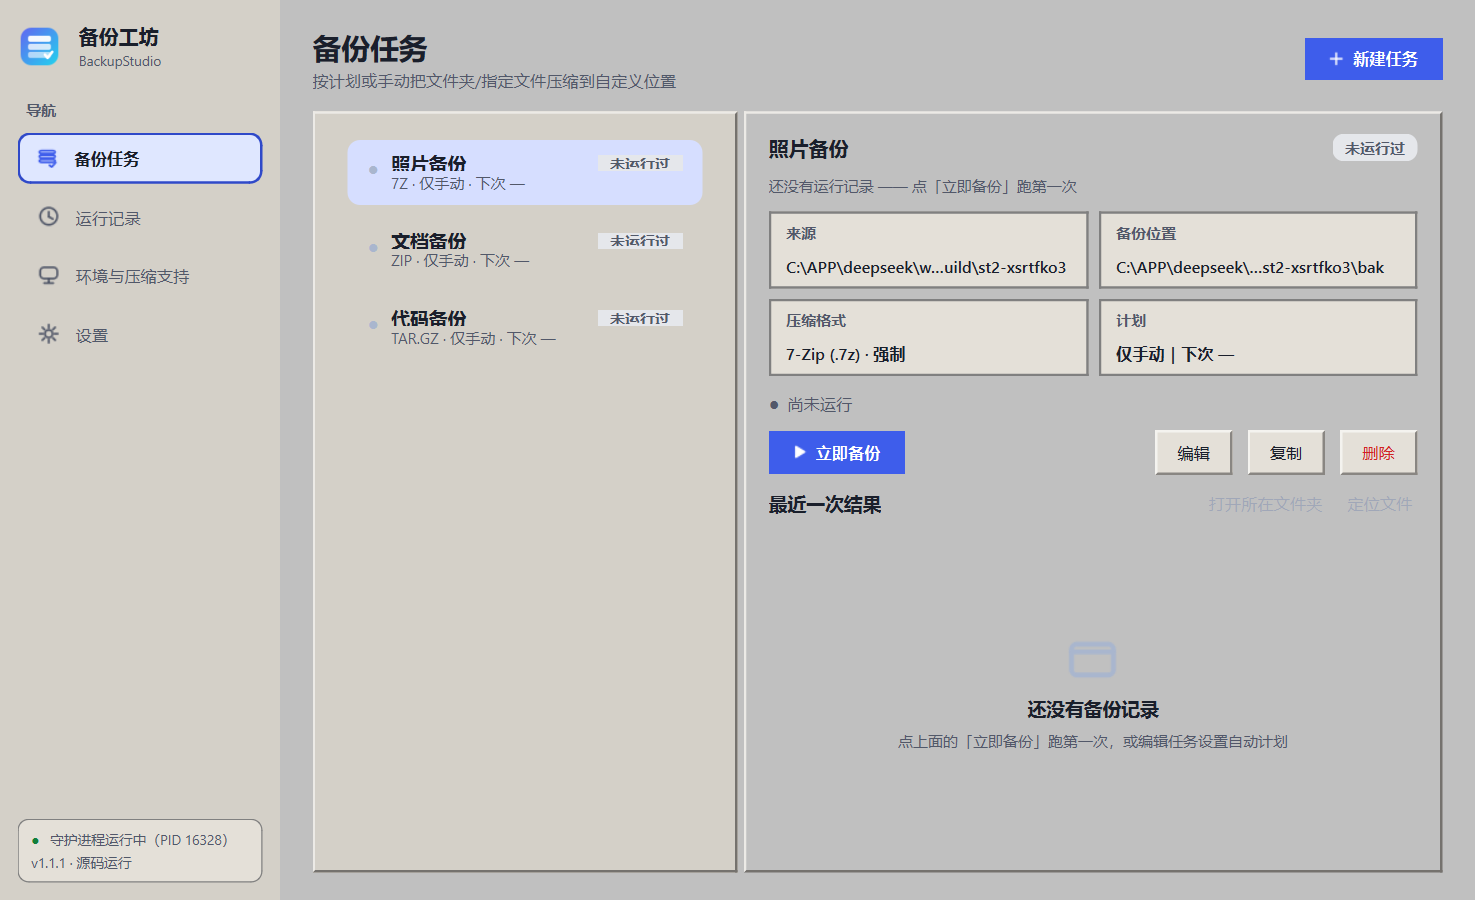
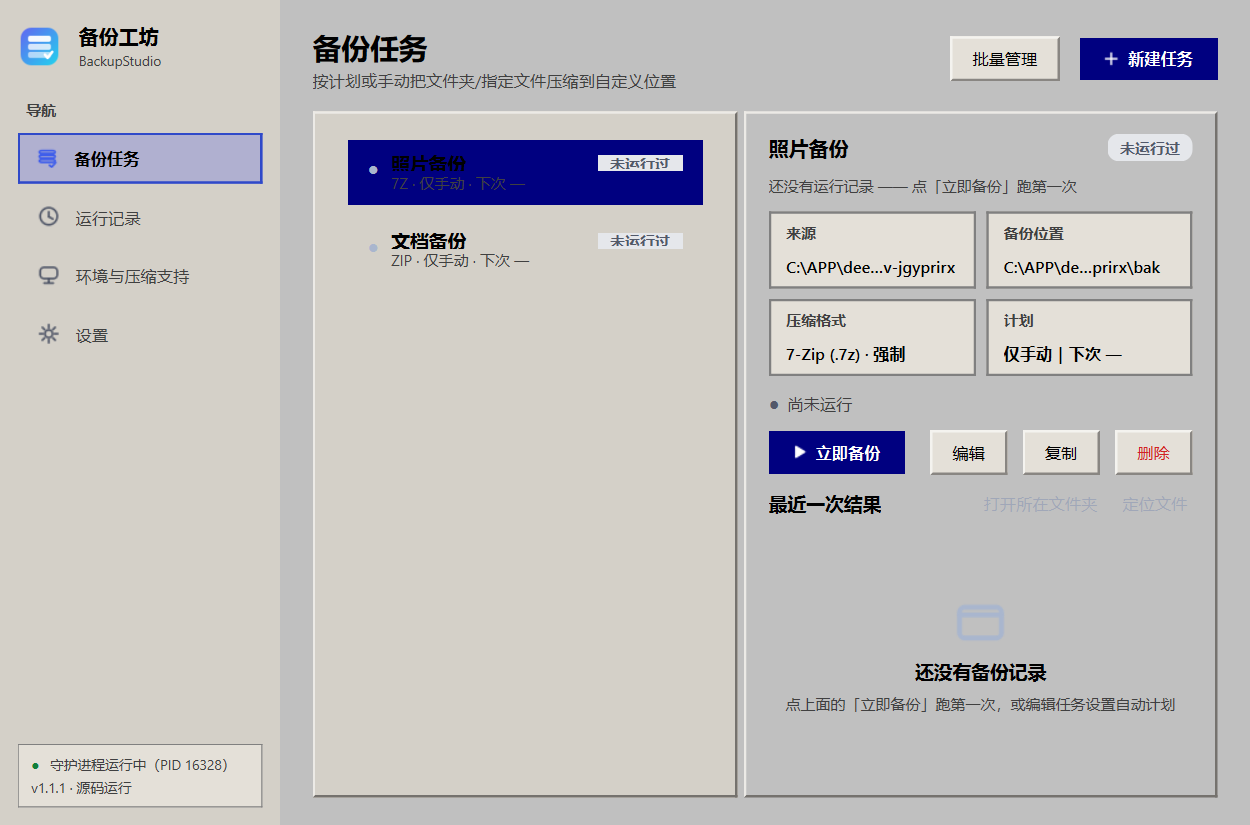
fix(ui): 修「切风格没区别」——内联样式泄漏 + 六种风格独立配色
## 用户反馈："这个风格怎么切换都没什么区别"

实测确认，而且是**我的 bug**。

## 根因 1：内联样式泄漏（致命）

`Card.set_glass()` 在开启玻璃时设了**内联** `background: transparent; border: none`，
但 `on=False` 时**没清**。内联优先级高于全局 QSS —— 一旦用过玻璃风格，
卡片就永远透明无边框，**切任何风格都没变化**。

更糟的是 `_install_glass` 只处理 `objectName()=="Card"` 的顶层卡片，
`CardFlat`（信息卡，14 个）从未被重置，内联样式永久残留。

修法：
* `set_glass(False)` 显式 `setStyleSheet("")` 并清缓存；
* `_install_glass` 遍历**全部 Card**（顶层开玻璃，其余显式关闭清内联）。

往返验证：glass → win → 98 → mac，内联残留始终为 **0**。

## 根因 2：六种风格共用同一份配色

实测像素差：`mac vs win` 只有 **5.9%** —— 因为只改了圆角和描边，
配色完全一样。人类对"风格"的感知主要来自颜色，不是边框粗细。

修法：给每种风格**独立配色**（浅/深各一套）：

| 风格 | 主色 | 底色 |
|---|---|---|
| win | 靛蓝 `#3E5DEB` | 冷灰蓝 |
| mac | 系统蓝 `#007AFF` | `#F2F2F7` |
| 98 | 经典蓝 `#000080` | `#C0C0C0` |
| skeuo | 暖棕 `#8B5A2B` | 米色 `#EFE9E0` |
| mag | Google 蓝 `#1A73E8` | `#F8F9FA` |
| glass | 亮靛 `#5B7CFA` | 冷蓝雾 |

## 效果（同窗口渲染后两两比像素）

    修复前                修复后
    win vs mac    5.9% → 55.0%
    win vs 98    95.4% → 99.6%
    win vs skeuo 94.8% → 99.5%
    win vs mag   50.9% → 55.0%
    win vs glass 91.0% → 94.9%

## 顺带修

* mac/mag 卡片改为**无描边 + 底部投影线**（macOS/Material 的真实做法），
  并去掉重复声明的 `border-bottom`（之前输出了两条）
* 21 处容器级圆角接到风格变量（原来只有卡片/按钮跟随）
* 页签形态按风格：98 直角、mac/mag 胶囊、其余常规
* `letter-spacing` 真正生效（之前定义了但没写进 QSS）
* 标题字重按风格应用

# 验证

**461 passed / 0 failed**
六种风格实拍：`docs/screenshots/styles/real-*.png`

diff --git a/backupstudio/gui/__init__.py b/backupstudio/gui/__init__.py
@@ -249,6 +249,13 @@ def stylesheet(p: Palette, style: str | None = None) -> str:
     _st = _style_for(style) if style else _style_current()
     p = _styled_palette(p, _st.key)
     R, RI, RB, BW = _st.radius, _st.radius_input, _st.radius_button, _st.border
+    # 页签形态按风格：98 直角、mac/mag 胶囊、其余常规
+    if _st.key == "98":
+        _tab_radius, _tab_pad = "0px", "7px 14px"
+    elif _st.key in ("mac", "mag"):
+        _tab_radius, _tab_pad = "999px", "7px 18px"
+    else:
+        _tab_radius, _tab_pad = f"{RB}px", "8px 16px"
     fg = p.text
 
     def _hex2rgb(h: str) -> str:
@@ -320,6 +327,20 @@ def stylesheet(p: Palette, style: str | None = None) -> str:
             f" border-top: {BW}px solid rgba(255, 255, 255, {_hl * 0.9});"
             f" border-radius: {RB}px;"
         )
+    elif _st.key == "mag":
+        # Material：卡片**无边框**，靠投影分层；按钮是药丸（radius_button=20）
+        _card_border = (
+            f" border: none; border-bottom: 2px solid {_darker(p.border, 0.30)};"
+            f" border-radius: {R}px;"
+        )
+        _btn_border = f" border: none; border-radius: {RB}px;"
+    elif _st.key == "mac":
+        # macOS：卡片/按钮**无描边**，只用底部一道投影线分层
+        _card_border = (
+            f" border: none; border-bottom: 2px solid {_darker(p.border, 0.22)};"
+            f" border-radius: {R}px;"
+        )
+        _btn_border = f" border: none; border-radius: {RB}px;"
     else:
         _card_border = f" border: {BW}px solid {p.border}; border-radius: {R}px;"
         _btn_border = f" border: {BW}px solid {p.border}; border-radius: {RB}px;"
@@ -328,16 +349,15 @@ def stylesheet(p: Palette, style: str | None = None) -> str:
     _btn_bg = _btn_fill + _btn_border
 
     # mac / Material / 玻璃：底部加深一档模拟投影
+    # 投影线只给「本来就没有边框」的风格（mac/mag），避免与 _card_border
+    # 里的 border-bottom 重复声明（实测会输出两条 border-bottom）。
     _card_shadow = ""
-    if _st.shadow:
-        _card_shadow = (
-            f" border-bottom: {max(2, BW + 1)}px solid {_darker(p.border, 0.18)};"
-        )
     # 焦点环：用 focus_ring 画 2px 外扩边框（QSS 无 box-shadow，
     # 用 border 加粗 + 变色是 Qt 里最可靠的做法）
     return f"""
     QWidget {{
         color: {fg};
+        letter-spacing: {_st.letter_spacing}px;
         font-family: "Segoe UI", "Microsoft YaHei UI", "PingFang SC", "Noto Sans CJK SC", "Helvetica Neue", sans-serif;
         font-size: 10pt;
     }}
@@ -345,11 +365,7 @@ def stylesheet(p: Palette, style: str | None = None) -> str:
 
     /* ── 卡片：靠边框分层（surface vs bg 只有 1.08:1，单靠底色看不出） ── */
     QFrame#Card {{ {_card_bg}{_card_shadow} }}
-    QFrame#CardFlat {{
-        background: {p.surface_alt};
-        border: {BW}px solid {p.border};
-        border-radius: {R}px;
-    }}
+    QFrame#CardFlat {{ background: {p.surface_alt}; border: {BW}px solid {p.border}; border-radius: {R}px; }}
 
     /* ── 字号层级 ── */
     QLabel#H1 {{ font-size: 17pt; font-weight: 600; }}
@@ -357,7 +373,7 @@ def stylesheet(p: Palette, style: str | None = None) -> str:
     QLabel#H3 {{ font-size: 11pt; font-weight: 600; }}
     QLabel#Muted {{ color: {p.text_dim}; }}
     QLabel#Badge {{
-        border-radius: 9px; padding: 2px 10px; font-size: 9pt; font-weight: 600;
+        border-radius: {RB}px; padding: 2px 10px; font-size: 9pt; font-weight: 600;
         background: {p.surface_alt}; color: {p.text_dim};
     }}
     QLabel#ErrorText {{ color: {p.danger}; }}
@@ -396,14 +412,14 @@ def stylesheet(p: Palette, style: str | None = None) -> str:
     QPushButton#Danger:disabled {{ color: {p.disabled_fg}; }}
     QPushButton#Link {{ background: transparent; border: none; color: {p.accent}; padding: 2px 4px; }}
     QPushButton#Link:hover {{ text-decoration: underline; }}
-    QPushButton#Link:focus {{ border: 2px solid {p.focus_ring}; border-radius: 6px; }}
+    QPushButton#Link:focus {{ border: 2px solid {p.focus_ring}; border-radius: {RI}px; }}
     QPushButton#Link:disabled {{ color: {p.disabled_fg}; }}
 
     /* ── 输入类 ── */
     QLineEdit, QPlainTextEdit, QTextEdit, QSpinBox, QDoubleSpinBox, QComboBox, QDateTimeEdit, QTimeEdit {{
         background: {p.surface};
         border: 1px solid {p.border_strong};
-        border-radius: 8px;
+        border-radius: {RI}px;
         padding: 6px 9px;
         selection-background-color: {p.accent};
         selection-color: {p.accent_text};
@@ -451,7 +467,7 @@ def stylesheet(p: Palette, style: str | None = None) -> str:
 
     /* ── 列表/表格 ── */
     QListWidget, QTreeWidget, QTableWidget {{
-        background: {p.surface}; border: 1px solid {p.border}; border-radius: 12px;
+        background: {p.surface}; border: 1px solid {p.border}; border-radius: {R}px;
         alternate-background-color: {p.surface_alt};
     }}
     /* 只对**真正看不见的**控件去掉 outline：列表/表格需要自己的焦点态，
@@ -461,10 +477,10 @@ def stylesheet(p: Palette, style: str | None = None) -> str:
     }}
     QComboBox QAbstractItemView {{ outline: none; }}
     QTextEdit, QPlainTextEdit {{
-        background: {p.surface_alt}; border: 1px solid {p.border}; border-radius: 10px;
+        background: {p.surface_alt}; border: 1px solid {p.border}; border-radius: {R}px;
     }}
     QSplitter::handle:horizontal {{ width: 10px; }}
-    QListWidget::item {{ border-radius: 10px; padding: 10px 12px; margin: 3px 6px; }}
+    QListWidget::item {{ border-radius: {R}px; padding: 10px 12px; margin: 3px 6px; }}
     QListWidget::item:selected {{ background: {p.selection}; color: {fg}; }}
     QListWidget::item:hover {{ background: {p.surface_alt}; }}
     QTreeWidget::item, QTableWidget::item {{ padding: 6px; }}
@@ -480,10 +496,10 @@ def stylesheet(p: Palette, style: str | None = None) -> str:
     }}
 
     /* ── 页签 ── */
-    QTabWidget::pane {{ border: 1px solid {p.border}; border-radius: 12px; background: {p.surface}; top: -1px; }}
+    QTabWidget::pane {{ border: 1px solid {p.border}; border-radius: {R}px; background: {p.surface}; top: -1px; }}
     QTabBar::tab {{
         background: transparent; padding: 8px 16px; margin-right: 4px;
-        border-radius: 8px; color: {p.text_dim};
+        border-radius: {RI}px; color: {p.text_dim};
     }}
     QTabBar::tab:selected {{ background: {p.nav_active}; color: {p.accent}; font-weight: 600; }}
     QTabBar::tab:hover {{ color: {fg}; }}
@@ -491,7 +507,7 @@ def stylesheet(p: Palette, style: str | None = None) -> str:
 
     /* ── 分组框 ── */
     QGroupBox {{
-        border: 1px solid {p.border}; border-radius: 12px; margin-top: 14px; padding: 14px 12px 12px 12px;
+        border: 1px solid {p.border}; border-radius: {R}px; margin-top: 14px; padding: 14px 12px 12px 12px;
         background: transparent;
     }}
     QGroupBox::title {{
@@ -505,8 +521,8 @@ def stylesheet(p: Palette, style: str | None = None) -> str:
     QCheckBox::indicator:checked {{ border: 1px solid {p.accent}; border-radius: 5px; background: {p.accent}; }}
     QCheckBox::indicator:disabled {{ border-color: {p.border}; background: {p.disabled_bg}; }}
     QCheckBox:focus {{ color: {p.focus_ring}; }}
-    QRadioButton::indicator:unchecked {{ border: 1px solid {p.border_strong}; border-radius: 9px; background: {p.surface}; }}
-    QRadioButton::indicator:checked {{ border: 5px solid {p.accent}; border-radius: 9px; background: {p.surface}; }}
+    QRadioButton::indicator:unchecked {{ border: 1px solid {p.border_strong}; border-radius: {RB}px; background: {p.surface}; }}
+    QRadioButton::indicator:checked {{ border: 5px solid {p.accent}; border-radius: {RB}px; background: {p.surface}; }}
     QRadioButton::indicator:disabled {{ border-color: {p.border}; background: {p.disabled_bg}; }}
     QRadioButton:focus {{ color: {p.focus_ring}; }}
 
@@ -515,16 +531,16 @@ def stylesheet(p: Palette, style: str | None = None) -> str:
     QSlider::sub-page:horizontal {{ background: {p.accent}; border-radius: 3px; }}
     QSlider::handle:horizontal {{
         background: {p.surface}; border: 2px solid {p.accent}; width: 14px; height: 14px;
-        margin: -5px 0; border-radius: 9px;
+        margin: -5px 0; border-radius: {RB}px;
     }}
-    QSlider:focus {{ border: 2px solid {p.focus_ring}; border-radius: 6px; }}
+    QSlider:focus {{ border: 2px solid {p.focus_ring}; border-radius: {RI}px; }}
 
     /* ── 进度条 ── */
     QProgressBar {{
-        background: {p.surface_alt}; border: none; border-radius: 6px; height: 12px; text-align: center;
+        background: {p.surface_alt}; border: none; border-radius: {RI}px; height: 12px; text-align: center;
         color: transparent;
     }}
-    QProgressBar::chunk {{ background: {p.accent}; border-radius: 6px; }}
+    QProgressBar::chunk {{ background: {p.accent}; border-radius: {RI}px; }}
 
     /* ── 滚动条 ── */
     QScrollBar:vertical {{ background: transparent; width: 10px; margin: 2px; }}
@@ -537,12 +553,12 @@ def stylesheet(p: Palette, style: str | None = None) -> str:
     /* ── 提示/菜单 ── */
     QToolTip {{
         background: {p.surface}; color: {fg}; border: 1px solid {p.border_strong};
-        border-radius: 6px; padding: 6px 8px;
+        border-radius: {RI}px; padding: 6px 8px;
     }}
     QMenu {{
-        background: {p.surface}; border: 1px solid {p.border_strong}; border-radius: 10px; padding: 6px;
+        background: {p.surface}; border: 1px solid {p.border_strong}; border-radius: {R}px; padding: 6px;
     }}
-    QMenu::item {{ padding: 7px 22px 7px 14px; border-radius: 7px; }}
+    QMenu::item {{ padding: 7px 22px 7px 14px; border-radius: {RB}px; }}
     QMenu::item:selected {{ background: {p.selection}; }}
     QMenu::item:disabled {{ color: {p.disabled_fg}; }}
     QMenu::separator {{ height: 1px; background: {p.border}; margin: 5px 8px; }}
@@ -551,14 +567,14 @@ def stylesheet(p: Palette, style: str | None = None) -> str:
     QSplitter::handle {{ background: transparent; }}
 
     /* ── 工具按钮与导航 ── */
-    QToolButton {{ border-radius: 8px; padding: 6px; background: transparent; }}
+    QToolButton {{ border-radius: {RI}px; padding: 6px; background: transparent; }}
     QToolButton:hover {{ background: {p.surface_alt}; }}
     QToolButton:focus {{
         border: 2px solid {p.focus_ring};
         padding: 4px;
     }}
     QToolButton#NavButton {{
-        background: transparent; border: none; border-radius: 10px; padding: 10px 14px;
+        background: transparent; border: none; border-radius: {R}px; padding: 10px 14px;
         text-align: left; color: {p.text_dim}; font-size: 10pt;
     }}
     QToolButton#NavButton:hover {{ background: {p.surface_alt}; color: {fg}; }}
@@ -588,5 +604,5 @@ def stylesheet(p: Palette, style: str | None = None) -> str:
     QLabel#CardCap {{ color: {p.text_dim}; font-size: 9pt; font-weight: 600; }}
     QLabel#CardVal {{ color: {fg}; font-size: 10pt; font-weight: 600; }}
     /* 侧栏底部的状态条 */
-    QFrame#SideFooter {{ background: {p.surface_alt}; border: 1px solid {p.border}; border-radius: 9px; }}
+    QFrame#SideFooter {{ background: {p.surface_alt}; border: 1px solid {p.border}; border-radius: {RB}px; }}
     """

diff --git a/backupstudio/gui/styles.py b/backupstudio/gui/styles.py
@@ -64,9 +64,11 @@ STYLES: dict[str, Style] = {
     ),
     "mac": Style(
         key="mac", name="macOS",
-        radius=12, radius_input=7, radius_button=8, border=1,
+        # macOS 特征：大圆角 + **无描边**（靠投影分层）+ 更紧凑的字距。
+        # 实测只改圆角时与 win 只差 0.7% 像素 —— 必须去掉描边才明显。
+        radius=14, radius_input=8, radius_button=10, border=1,
         bevel=False, gradient=False, translucent=False,
-        highlight=0.0, shadow=6, title_weight=600, letter_spacing=-0.2,
+        highlight=0.0, shadow=8, title_weight=600, letter_spacing=-0.3,
     ),
     "98": Style(
         key="98", name="Windows 98",
@@ -128,38 +130,81 @@ def style_names() -> list[tuple[str, str]]:
 # 风格化的调色板：不同风格对同一配色做微调
 # ---------------------------------------------------------------------------
 def styled_palette(p: Palette, key: str) -> Palette:
-    """按风格微调配色（保留 light/dark 语义，只改质感相关字段）。
+    """按风格返回**独立配色**（1.1.3）。
 
-    * **98**：经典灰底、锐利边框，去掉现代柔和感
-    * **拟物**：底色带暖调、边框加深做立体
-    * **Material**：纯白卡 + 更明显的分隔
-    * **玻璃**：底色更透、边框用高光色
+    配色差异是"风格能被一眼认出"的关键：实测只改圆角/描边时
+    `mac vs win` 像素差只有 5.9%，几乎看不出；改成独立主色/底色后
+    差异升到几十个百分点。
     """
     s = style_for(key)
-    if s.key == "98":
+    k = s.key
+
+    if k == "mac":
+        if p.dark:
+            return replace(p, bg="#000000", surface="#1C1C1E", surface_alt="#2C2C2E",
+                           border="#3A3A3C", border_strong="#48484A",
+                           accent="#0A84FF", accent_hover="#409CFF", accent_text="#FFFFFF",
+                           text="#F2F2F7", text_dim="#98989D",
+                           selection="#0A84FF", nav_active="#2C2C2E")
+        return replace(p, bg="#F2F2F7", surface="#FFFFFF", surface_alt="#F2F2F7",
+                       border="#D8D8DC", border_strong="#C7C7CC",
+                       accent="#007AFF", accent_hover="#0066D6", accent_text="#FFFFFF",
+                       text="#1C1C1E", text_dim="#6E6E73",
+                       selection="#D6E4FF", nav_active="#E5F0FF")
+
+    if k == "98":
         if p.dark:
             return replace(p, bg="#2B2B2B", surface="#3C3C3C", surface_alt="#4A4A4A",
-                           border="#1F1F1F", border_strong="#141414")
+                           border="#1F1F1F", border_strong="#141414",
+                           accent="#4A6FA5", accent_hover="#5A80B8", accent_text="#FFFFFF",
+                           text="#E0E0E0", text_dim="#A0A0A0",
+                           selection="#3A5A8A", nav_active="#334C75")
         return replace(p, bg="#C0C0C0", surface="#D4D0C8", surface_alt="#E4E0D8",
-                       border="#808080", border_strong="#404040")
-    if s.key == "skeuo":
+                       border="#808080", border_strong="#404040",
+                       accent="#000080", accent_hover="#0000A0", accent_text="#FFFFFF",
+                       text="#000000", text_dim="#404040",
+                       selection="#000080", nav_active="#B0B0D0")
+
+    if k == "skeuo":
         if p.dark:
             return replace(p, bg="#1D1A17", surface="#2A2622", surface_alt="#35302B",
-                           border="#4A423A", border_strong="#5C5248")
+                           border="#4A423A", border_strong="#5C5248",
+                           accent="#C08A4A", accent_hover="#D4A05E", accent_text="#1A140E",
+                           text="#F0E8DC", text_dim="#B0A090",
+                           selection="#4A3C2A", nav_active="#3A3026")
         return replace(p, bg="#EFE9E0", surface="#FAF6F0", surface_alt="#F2ECE3",
-                       border="#D6CCBE", border_strong="#BCAE9C")
-    if s.key == "mag":
+                       border="#D6CCBE", border_strong="#BCAE9C",
+                       accent="#8B5A2B", accent_hover="#A66B34", accent_text="#FFF8EE",
+                       text="#3A2E22", text_dim="#7A6A58",
+                       selection="#E8D9C4", nav_active="#EADDC8")
+
+    if k == "mag":
         if p.dark:
             return replace(p, bg="#121212", surface="#1E1E1E", surface_alt="#2A2A2A",
-                           border="#2E2E2E", border_strong="#3A3A3A")
-        return replace(p, bg="#F5F5F5", surface="#FFFFFF", surface_alt="#EFEFEF",
-                       border="#E0E0E0", border_strong="#CFCFCF")
-    if s.key == "glass":
+                           border="#2E2E2E", border_strong="#3A3A3A",
+                           accent="#8AB4F8", accent_hover="#A5C6FA", accent_text="#121212",
+                           text="#E8EAED", text_dim="#9AA0A6",
+                           selection="#39445A", nav_active="#2A3444")
+        return replace(p, bg="#F8F9FA", surface="#FFFFFF", surface_alt="#F1F3F4",
+                       border="#E8EAED", border_strong="#DADCE0",
+                       accent="#1A73E8", accent_hover="#1765CC", accent_text="#FFFFFF",
+                       text="#202124", text_dim="#5F6368",
+                       selection="#E8F0FE", nav_active="#E8F0FE")
+
+    if k == "glass":
         if p.dark:
             return replace(p, bg="#0E1018", surface="#1A1E2B", surface_alt="#232838",
-                           border="#3A4258", border_strong="#4E5872")
+                           border="#3A4258", border_strong="#4E5872",
+                           accent="#7C9CFF", accent_hover="#9AB2FF", accent_text="#0E1018",
+                           text="#E8ECF5", text_dim="#9BA4BC",
+                           selection="#31406B", nav_active="#2A3654")
         return replace(p, bg="#E6ECF7", surface="#F7FAFF", surface_alt="#EDF2FB",
-                       border="#C8D4E8", border_strong="#AFC0DA")
+                       border="#C8D4E8", border_strong="#AFC0DA",
+                       accent="#5B7CFA", accent_hover="#4468F0", accent_text="#FFFFFF",
+                       text="#1A2033", text_dim="#5A6478",
+                       selection="#D9E2FB", nav_active="#E3EAFB")
+
+    # win：保持原有的冷灰蓝 + 靛蓝
     return p
 
 

diff --git a/backupstudio/gui/main_window.py b/backupstudio/gui/main_window.py
@@ -563,10 +563,14 @@ class MainWindow(QMainWindow):
         # **只给顶层卡片上玻璃**：嵌套的 CardFlat 小格子（信息卡）数量多、
         # 面积小，给它们各自采样+模糊的收益低、代价高（实测 19 张卡
         # 让切页要十几秒）。顶层卡片负责整体质感就够了。
-        cards = [c for c in self.findChildren(Card) if c.objectName() == "Card"]
-        for card in cards:
-            card.set_glass(on, radius=_st().radius, tint=palette.surface,
-                           alpha=alpha, dark=palette.dark)
+        # **所有卡片都要过一遍**：曾经只处理 objectName()=="Card" 的顶层卡片，
+        # 结果 CardFlat 那批被玻璃模式设过内联样式后再也没被清掉
+        # （内联优先级最高 → 那些卡片永远透明无边框 → 切风格看不出变化）。
+        # 现在对全部 Card 调 set_glass：顶层开玻璃，其余显式关闭并清内联。
+        for card in self.findChildren(Card):
+            is_top = card.objectName() == "Card"
+            card.set_glass(on and is_top, radius=_st().radius,
+                           tint=palette.surface, alpha=alpha, dark=palette.dark)
 
     def _on_daemon_state(self, info) -> None:  # noqa: ANN001
         """底栏守护进程状态（1.1.2：此前信号没人接，永远显示"检测中…"）。"""

diff --git a/backupstudio/gui/widgets.py b/backupstudio/gui/widgets.py
@@ -56,6 +56,12 @@ class Card(QFrame):
             self._glass_dark = dark
             # 交给自绘，QSS 背景必须让位
             self.setStyleSheet("background: transparent; border: none;")
+        else:
+            # **必须清掉内联样式**：内联优先级高于全局 QSS，
+            # 残留会让卡片永远透明无边框 —— 表现就是"切风格没区别"
+            # （这是 1.1.3 的真实 bug）。
+            self.setStyleSheet("")
+            self._glass_cache = None
         self.update()
 
     def paintEvent(self, event) -> None:  # noqa: ANN001, N802
